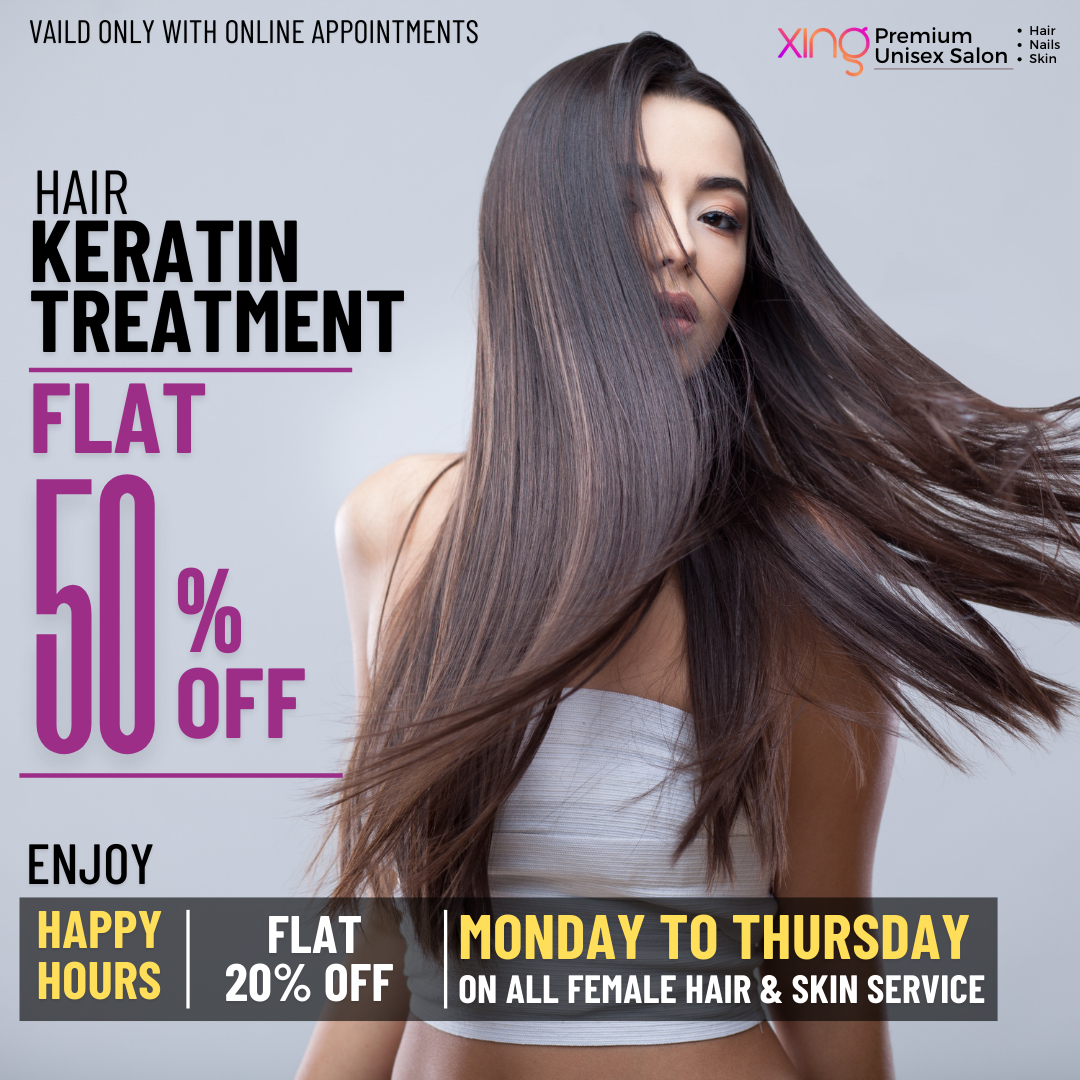
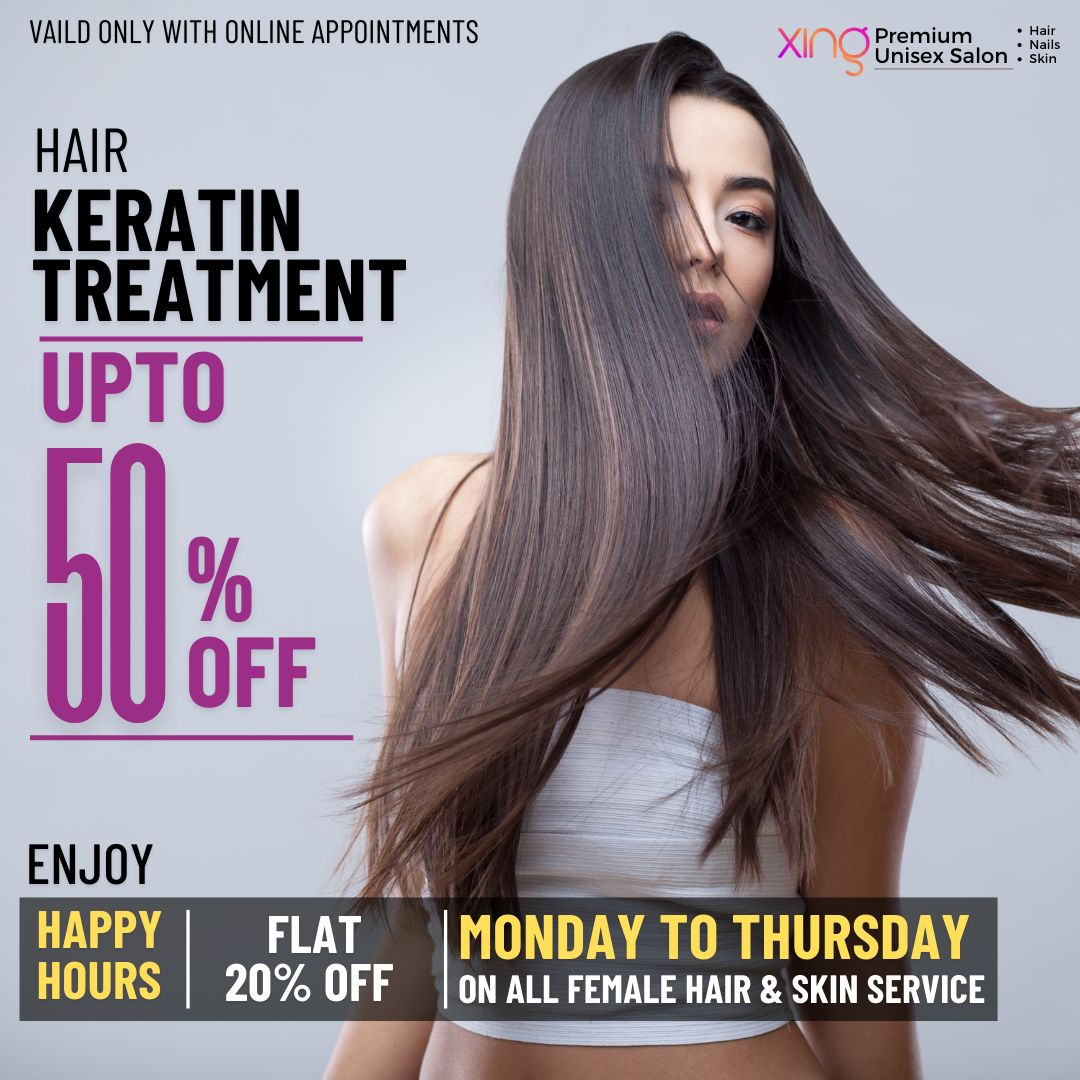
cr3

diff --git a/src/components/Footer.jsx b/src/components/Footer.jsx
@@ -21,14 +21,14 @@ function Footer({ locationInfo }) {
             <h2 className="footer-links-group-heading">Quick Links</h2>
             <a onClick={() => scrollToSection("services-section")} className="footer-links-group-link">Services</a>
             <a onClick={() => scrollToSection("review-section")} className="footer-links-group-link">Reviews</a>
-            <a onClick={() => scrollToSection("contact-section")} className="footer-links-group-link">Contact</a>
+            <a onClick={() => scrollToSection("personalized-treatment")} className="footer-links-group-link">Contact</a>
             <a onClick={() => scrollToSection("contact-section")} className="footer-links-group-link">Location</a>
           </div>
           <div className="footer-links-group">
             <h2 className="footer-links-group-heading">Socials</h2>
             <a href="https://www.instagram.com/xingpremiumsalons" className="footer-links-group-link">Instagram</a>
             <a href="https://www.facebook.com/people/XING-Salon-Nails-and-Tattoo/100089547421311/" className="footer-links-group-link">Facebook</a>
-            <a href="https://api.whatsapp.com/send/?phone=%2B917996666012&text=I+want+to+avail+hair+offer" className="footer-links-group-link">WhatsApp</a>
+            <a href={`https://api.whatsapp.com/send/?phone=%2B91${locationInfo?.phoneNumber}&text=I+want+to+avail+hair+offer`} className="footer-links-group-link">WhatsApp</a>
           </div>
           <div className="footer-links-group">
             <h2 className="footer-links-group-heading">Contact</h2>

diff --git a/src/components/Footer5.jsx b/src/components/Footer5.jsx
@@ -26,7 +26,7 @@ function Footer5({ locationInfo }) {
             <h2 className="footer-links-group-heading">Quick Links</h2>
             <a onClick={() => scrollToSection("services-section")} className="footer-links-group-link">Services</a>
             <a onClick={() => scrollToSection("review-section")} className="footer-links-group-link">Reviews</a>
-            <a onClick={() => scrollToSection("contact-section")} className="footer-links-group-link">Contact</a>
+            <a onClick={() => scrollToSection("personalized-treatment")} className="footer-links-group-link">Contact</a>
             <a onClick={() => scrollToSection("contact-section")} className="footer-links-group-link">Location</a>
           </div>
           <div className="footer-links-group">

diff --git a/src/components/ContactForm.jsx b/src/components/ContactForm.jsx
@@ -4,7 +4,7 @@ import { toast } from "react-toastify";
 function ContactForm({ offers, pageName="" ,title=""}) {
   const gSheetUrl =
     // "https://script.google.com/macros/s/AKfycbycozoWrMd2qlqlBtmGddluTPmFDbMh3v14mn9BwNLXG8j9oKCBZs1Ykzfbluvn92W88Q/exec";
-    "https://script.google.com/macros/s/AKfycbzpKzgsAavrZ83XWe0tb_5Oa6tzOngZ5Yq1SI6Guk3G3YXZPfbHYQO9dJXDEkBdc6rmhQ/exec";
+      "https://script.google.com/macros/s/AKfycbzNahIv22m1AZm2OdDQwYaWbERwQ-9o3GhK9w9BRMrHu413Yb4BsTPDJO5KYB0iufajIw/exec";
 
   const [userName, setUserName] = useState("");
   const [userNumber, setUserNumber] = useState("");

diff --git a/src/components/HeroSectionThree.jsx b/src/components/HeroSectionThree.jsx
@@ -56,7 +56,7 @@ function HeroSectionThree({ locationInfo }) {
               <img src={checkIcon} alt="" className="hero-checks-check-icon" />
               <p className="hero-checks-check-text" style={{ color: "white" }}>
                 Premium Service starting from
-                <span className="pri-text"> Rs. 899</span>
+                <span className="pri-text"> Rs. 599</span>
               </p>
             </div>
           </div>
